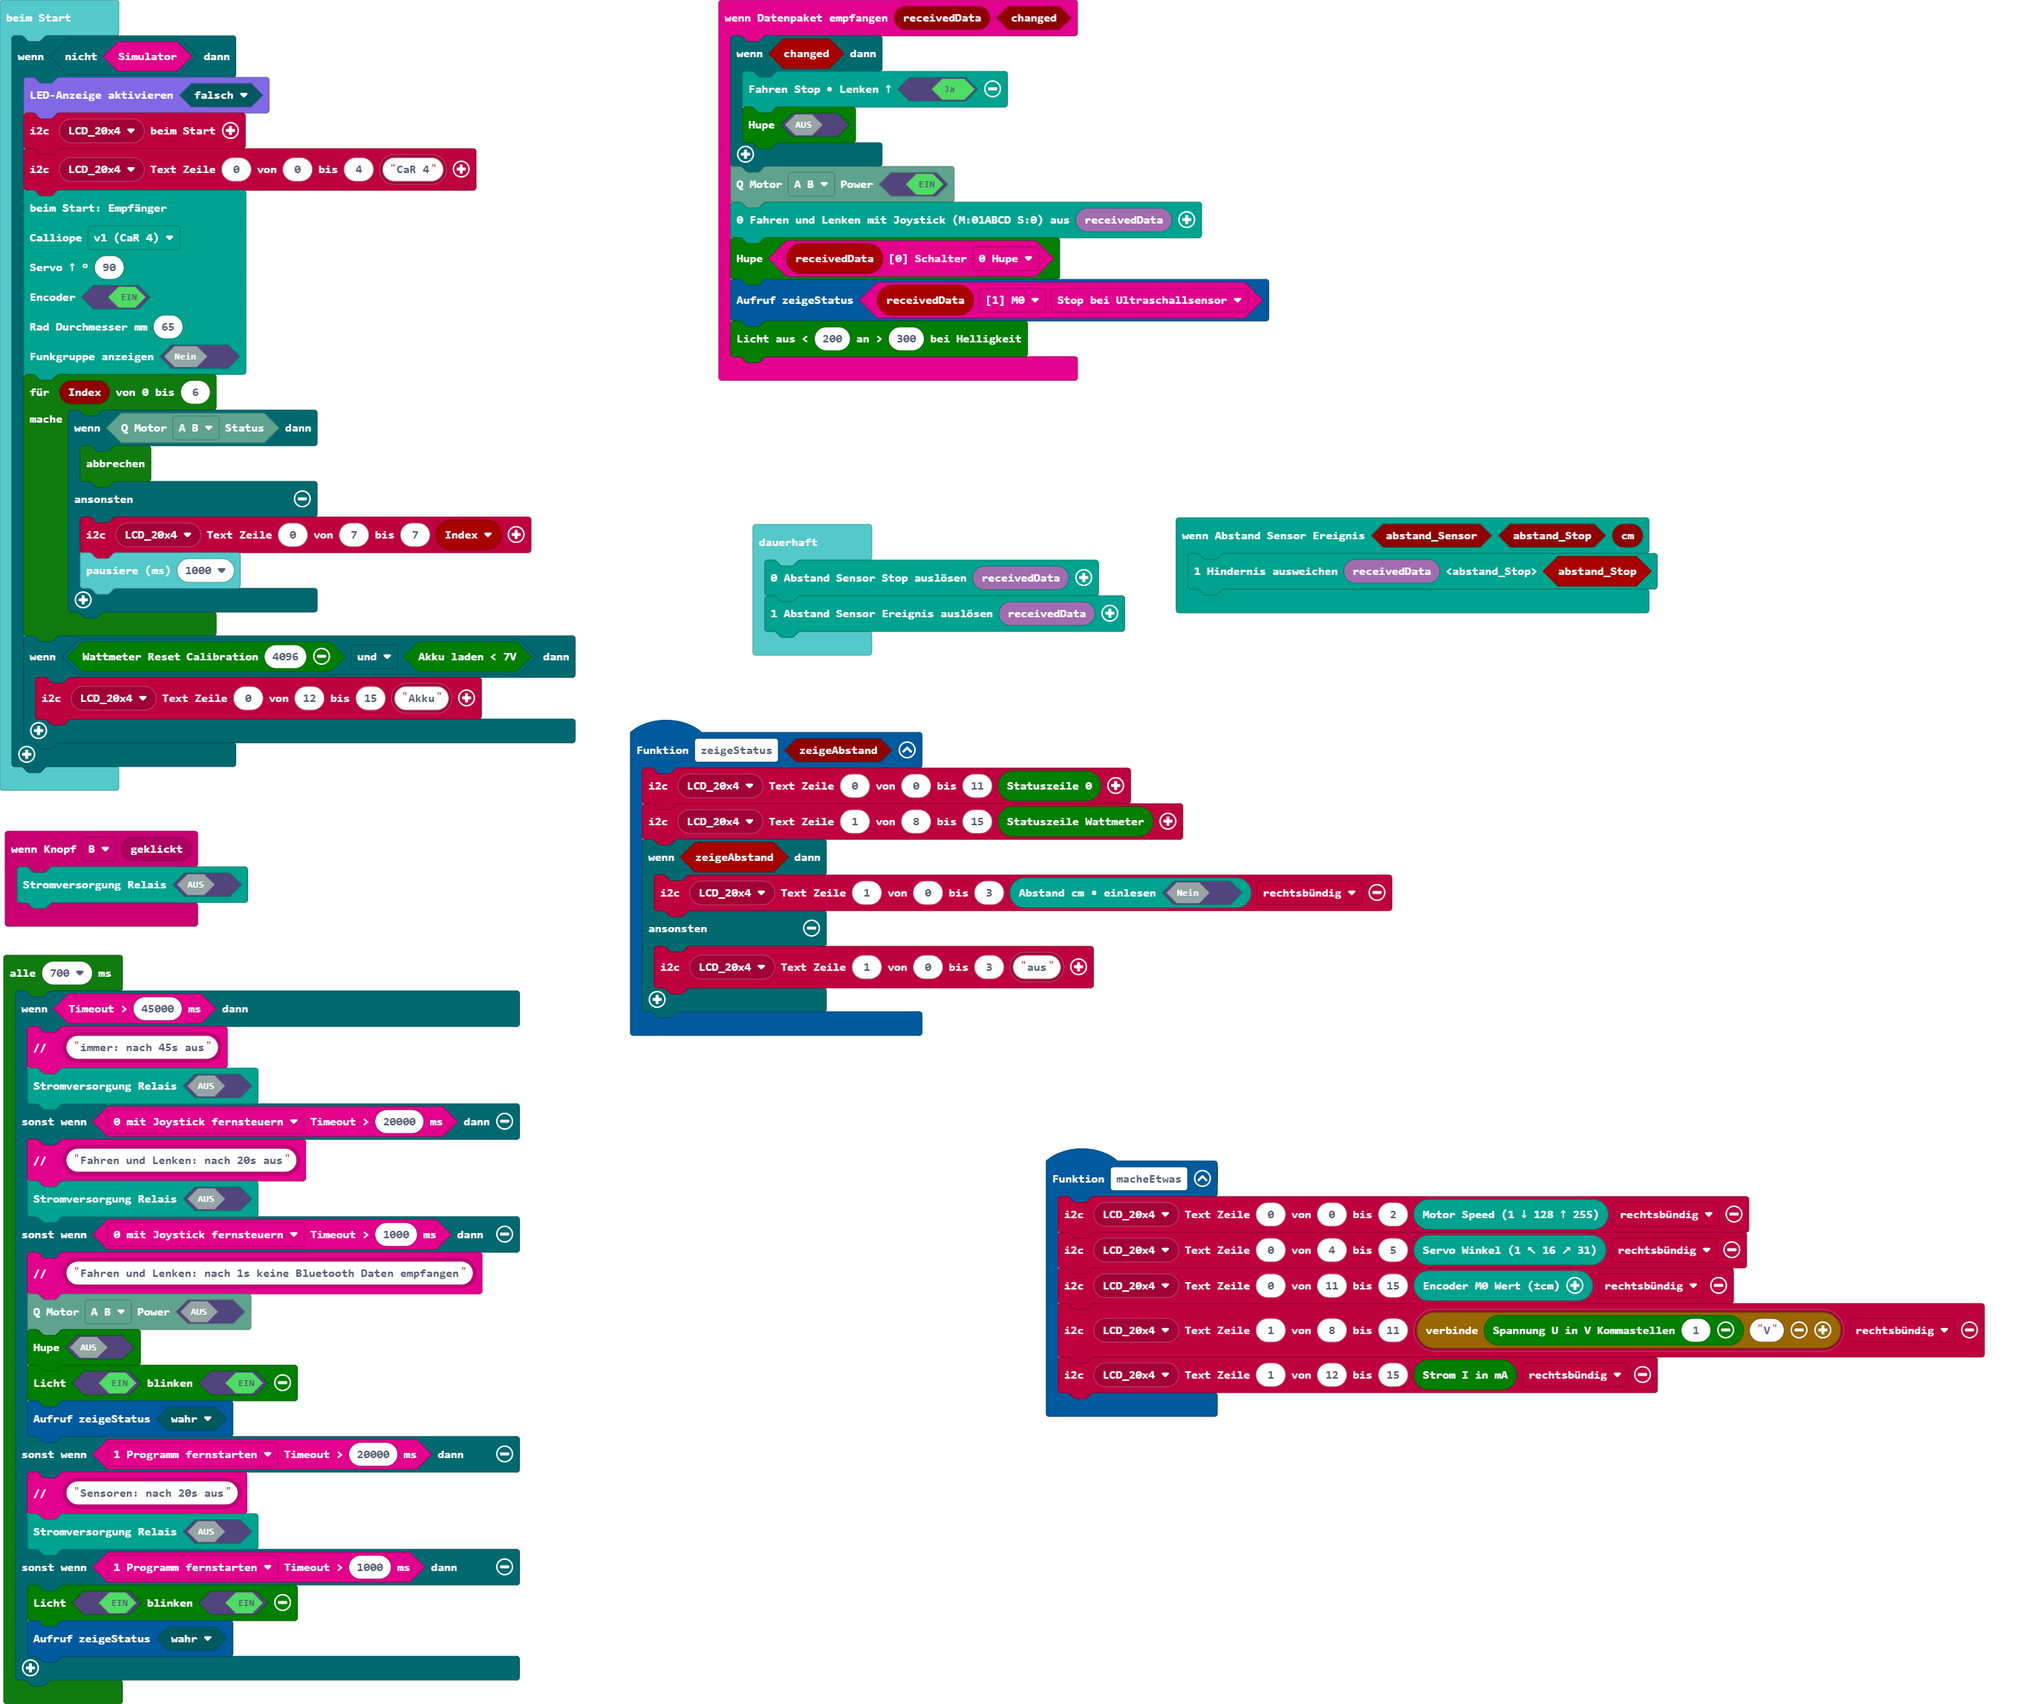
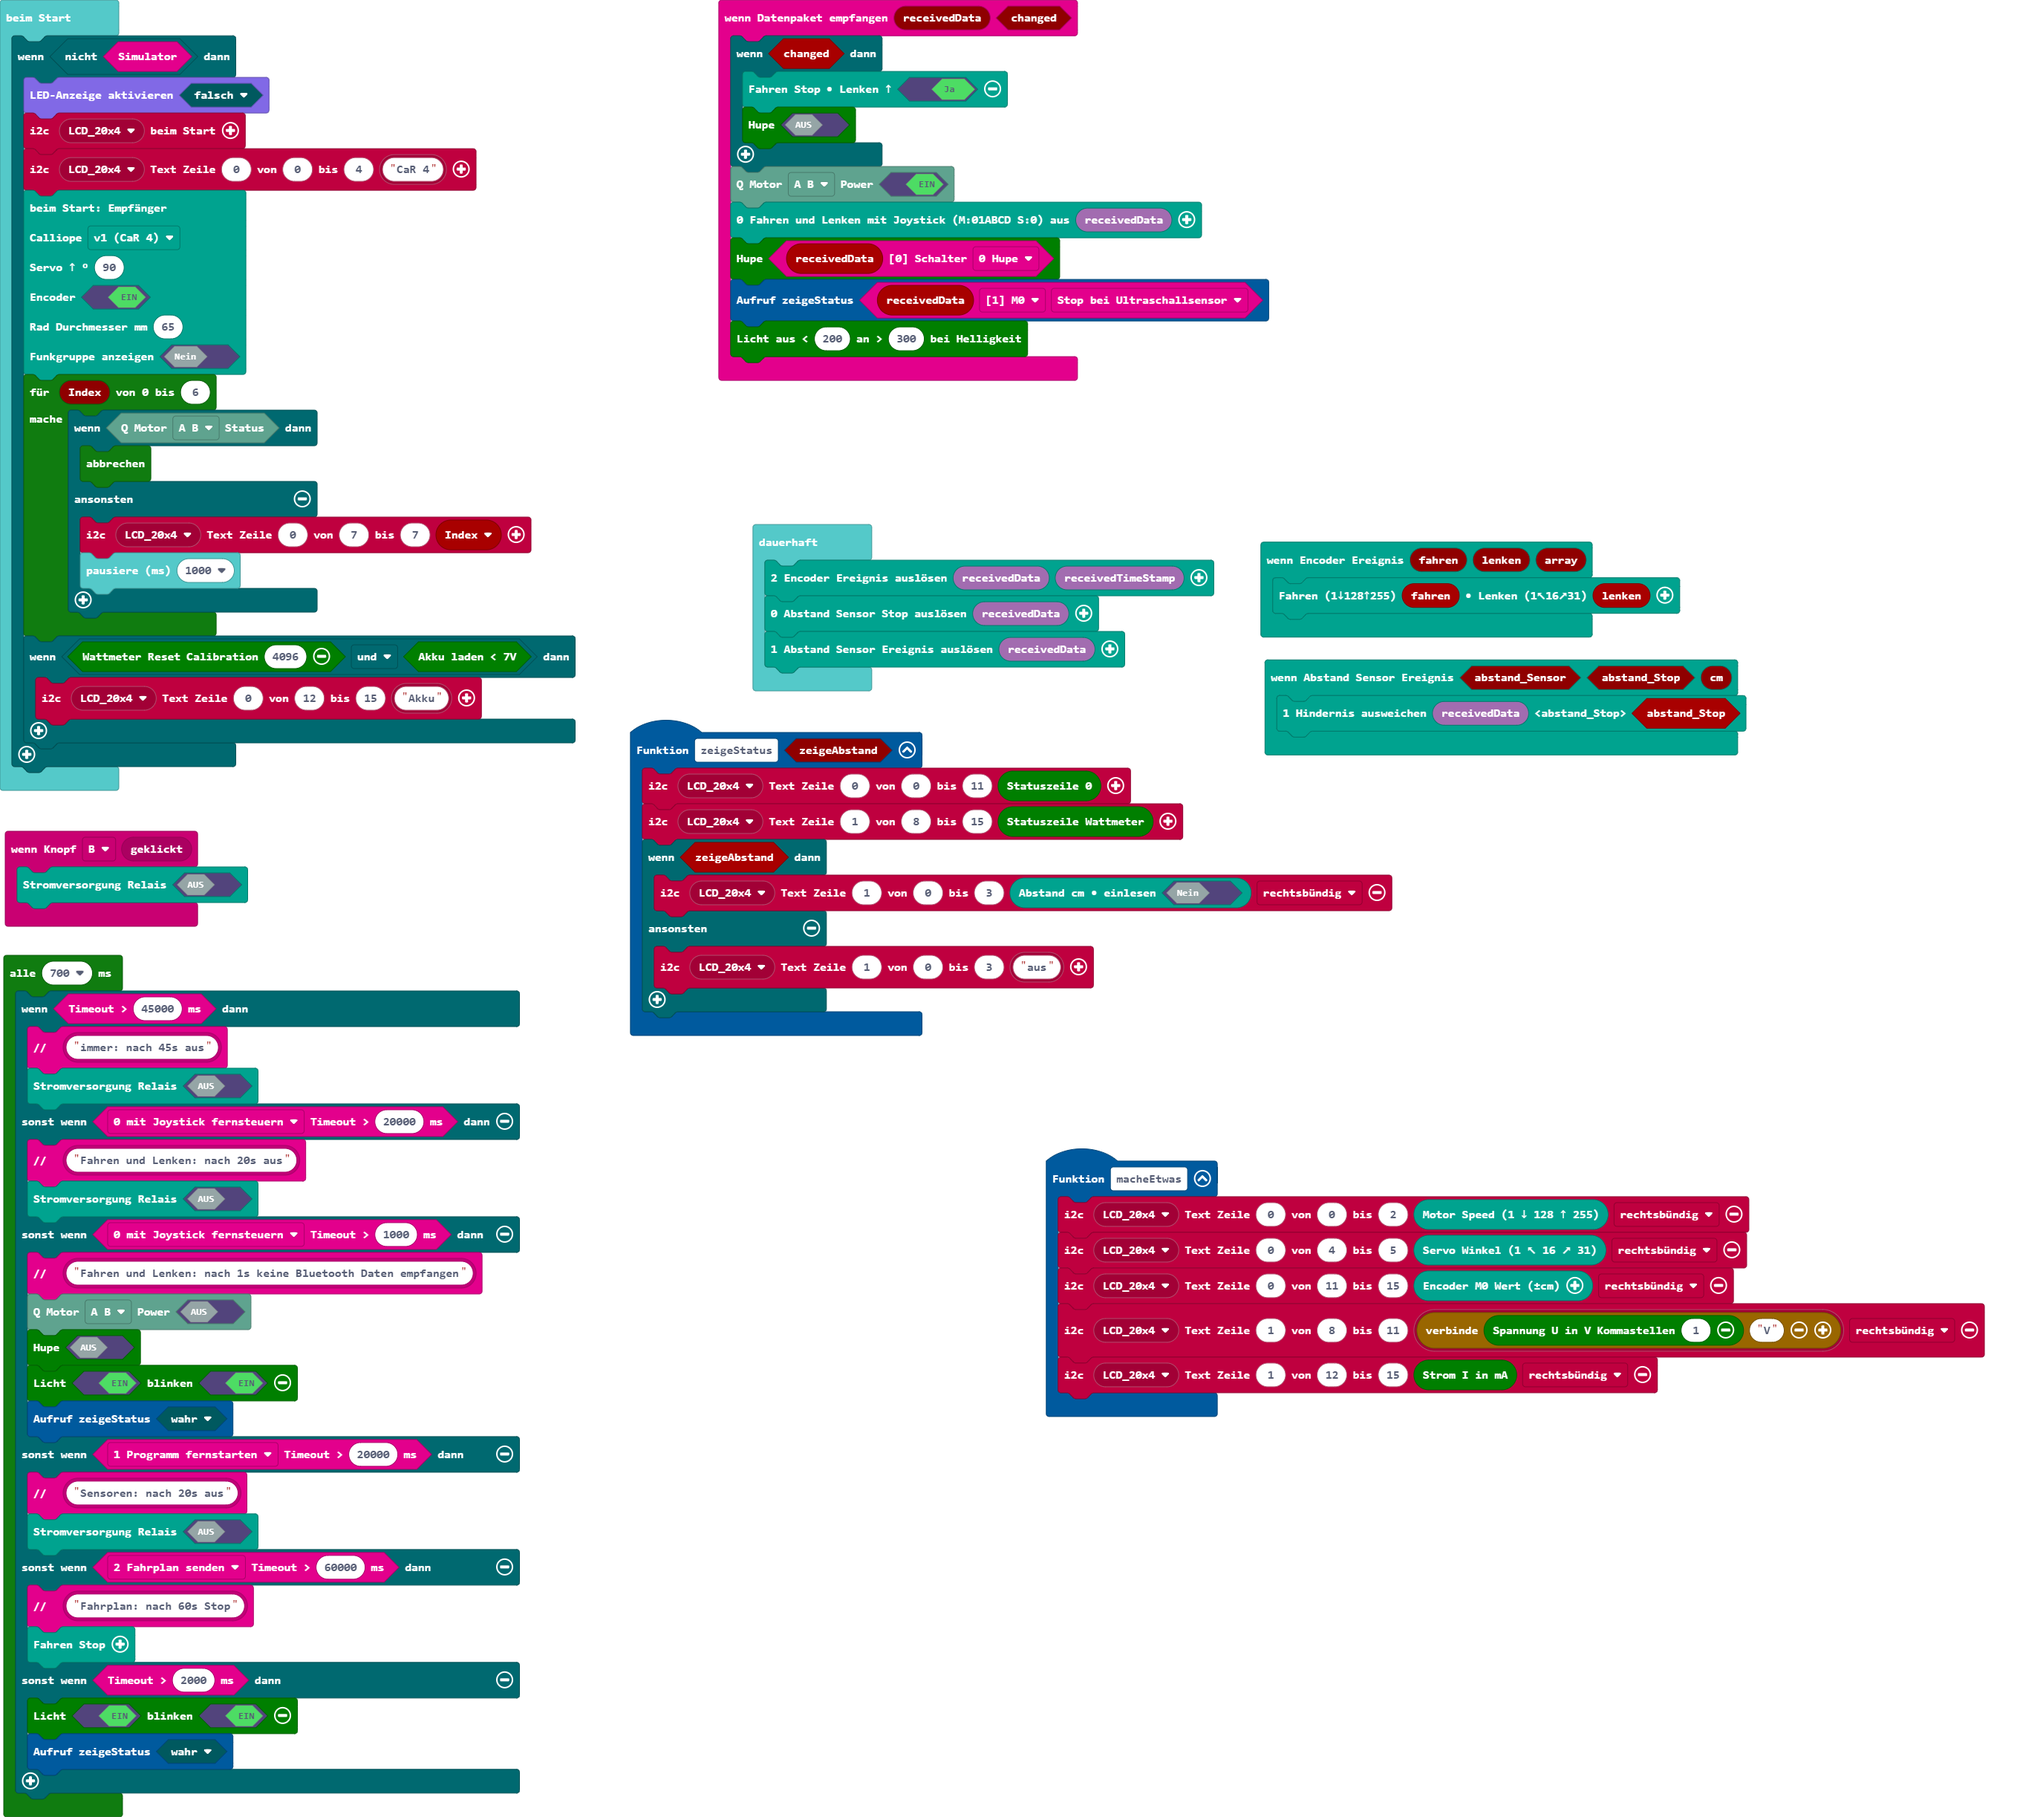
Aktualisiere main.blocks, main.ts

Changed region(s): [[0.0, 0.0, 0.8737, 0.9904], [0.4993, 0.619, 0.9985, 0.8357], [0.3432, 0.0, 0.6241, 0.2476]]

diff --git a/main.ts b/main.ts
@@ -5,6 +5,9 @@ function macheEtwas () {
     lcd20x4.writeText(lcd20x4.lcd20x4_eADDR(lcd20x4.eADDR.LCD_20x4), 1, 8, 11, lcd20x4.lcd20x4_text("" + car.wattmeterV(1) + "V"), lcd20x4.eAlign.right)
     lcd20x4.writeText(lcd20x4.lcd20x4_eADDR(lcd20x4.eADDR.LCD_20x4), 1, 12, 15, car.wattmetermA(), lcd20x4.eAlign.right)
 }
+receiver.onEncoderEvent(function (fahren, lenken, array) {
+    receiver.selectMotor128Servo16(fahren, lenken)
+})
 function zeigeStatus (zeigeAbstand: boolean) {
     lcd20x4.writeText(lcd20x4.lcd20x4_eADDR(lcd20x4.eADDR.LCD_20x4), 0, 0, 11, car.statuszeile0())
     lcd20x4.writeText(lcd20x4.lcd20x4_eADDR(lcd20x4.eADDR.LCD_20x4), 1, 8, 15, car.statuszeilew())
@@ -55,6 +58,7 @@ if (!(btf.simulator())) {
     }
 }
 basic.forever(function () {
+    receiver.buffer_raiseEncoderEvent(btf.btf_receivedBuffer19(), btf.btf_RadioPacketTime())
     receiver.buffer_raiseAbstandMotorStop(btf.btf_receivedBuffer19())
     receiver.buffer_raiseAbstandEvent(btf.btf_receivedBuffer19())
 })
@@ -74,7 +78,10 @@ loops.everyInterval(700, function () {
     } else if (btf.timeoutReceivedBuffer(btf.e0Betriebsart.p1Lokal, 20000)) {
         btf.comment(btf.btf_text("Sensoren: nach 20s aus"))
         receiver.pinRelay(false)
-    } else if (btf.timeoutReceivedBuffer(btf.e0Betriebsart.p1Lokal, 1000)) {
+    } else if (btf.timeoutReceivedBuffer(btf.e0Betriebsart.p2Fahrplan, 60000)) {
+        btf.comment(btf.btf_text("Fahrplan: nach 60s Stop"))
+        receiver.selectMotorStop()
+    } else if (btf.timeout(2000)) {
         car.licht(true, true)
         zeigeStatus(true)
     }
